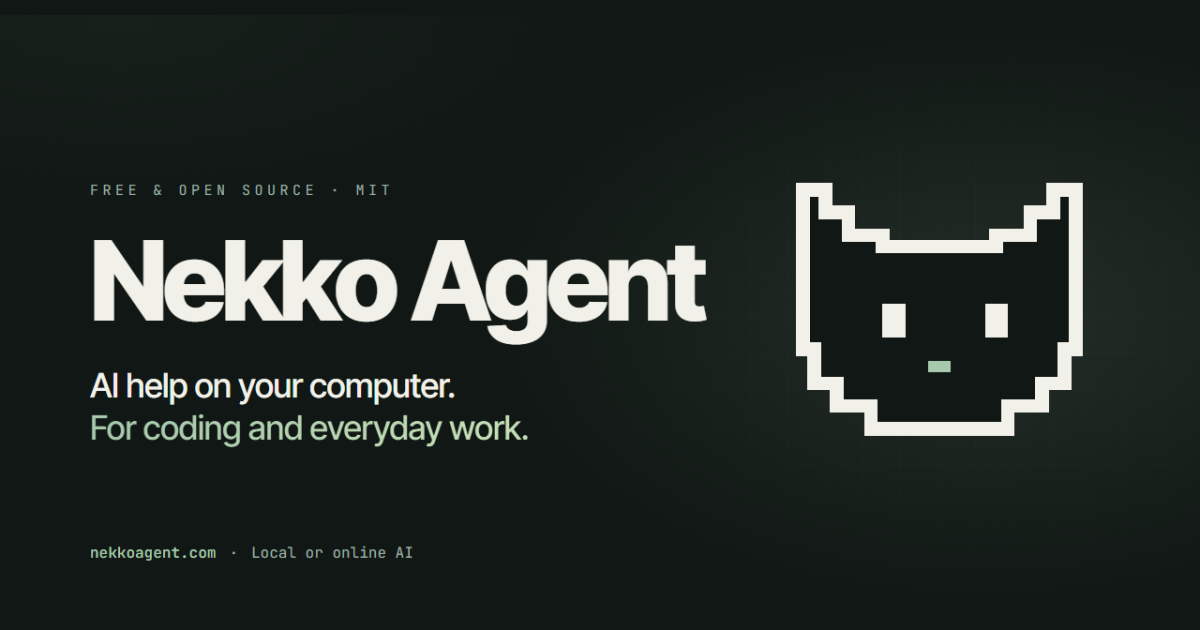
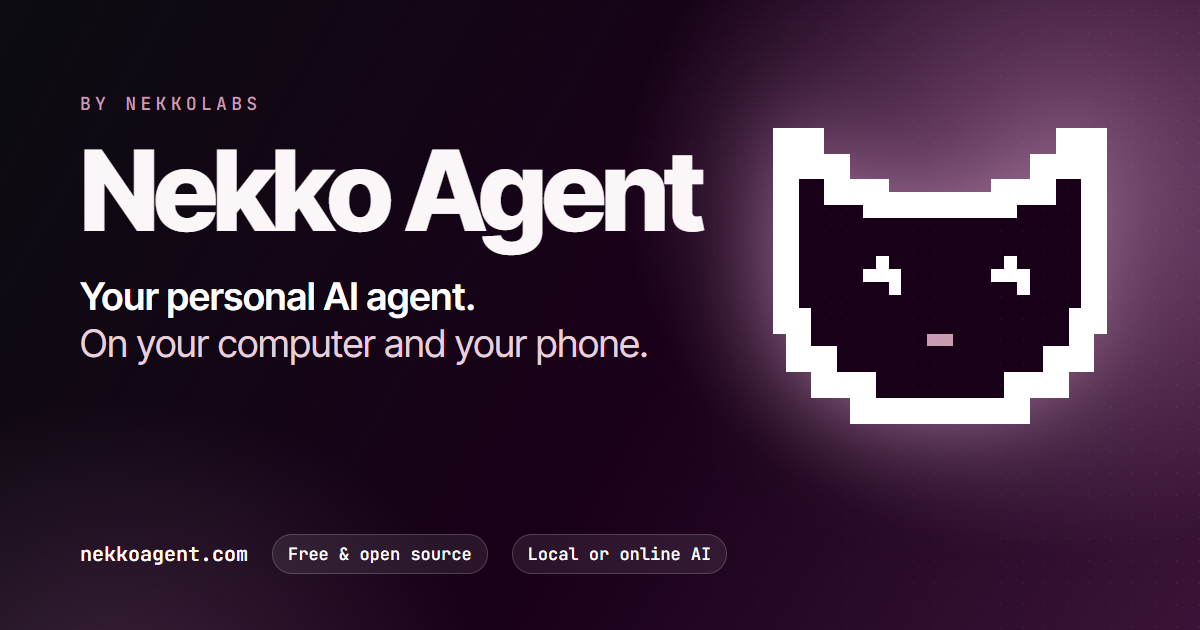
Website: a plum social preview card for every page, with Nekko on each
A shared nekkoagent.com link now shows that page's own title instead of
one generic card. The homepage card and 42 page cards (every docs page,
plus beta, status and privacy) are redrawn in the current plum brand,
with the mascot's pixel head as the picture, the logo tile top-left and
the page's address at the bottom.

scripts/make-og-cards.mjs draws them from the brand source; the docs
builder points each page at its card and falls back to the site card
for a page that has none yet. beta, status and privacy get full Open
Graph and Twitter tags, which they lacked.

diff --git a/apps/website/privacy.html b/apps/website/privacy.html
@@ -6,6 +6,20 @@
     <title>Privacy policy · Nekko Agent</title>
     <meta name="description" content="How Nekko Labs handles your details on nekkoagent.com, in the Nekko Agent beta and in Nekko Cloud: what we keep, why, who handles it and where, for how long, and your rights." />
     <link rel="canonical" href="https://nekkoagent.com/privacy" />
+    <meta property="og:type" content="website" />
+    <meta property="og:site_name" content="Nekko Agent" />
+    <meta property="og:url" content="https://nekkoagent.com/privacy" />
+    <meta property="og:title" content="Privacy policy · Nekko Agent" />
+    <meta property="og:description" content="How Nekko Labs handles your details on nekkoagent.com, in the Nekko Agent beta and in Nekko Cloud: what we keep, why, who handles it and where, for how long, and your rights." />
+    <meta property="og:image" content="https://nekkoagent.com/og/privacy.jpg?v=2" />
+    <meta property="og:image:width" content="1200" />
+    <meta property="og:image:height" content="630" />
+    <meta property="og:image:type" content="image/jpeg" />
+    <meta property="og:image:alt" content="Privacy policy · Nekko Agent" />
+    <meta name="twitter:card" content="summary_large_image" />
+    <meta name="twitter:title" content="Privacy policy · Nekko Agent" />
+    <meta name="twitter:description" content="How Nekko Labs handles your details on nekkoagent.com, in the Nekko Agent beta and in Nekko Cloud: what we keep, why, who handles it and where, for how long, and your rights." />
+    <meta name="twitter:image" content="https://nekkoagent.com/og/privacy.jpg?v=2" />
     <meta name="theme-color" content="#fbf6f8" />
     <script>(function(){var t=null;try{t=localStorage.getItem('nekko-theme');}catch(e){}if(t!=='white'&&t!=='dark')t=window.matchMedia&&matchMedia('(prefers-color-scheme: dark)').matches?'dark':'white';document.documentElement.dataset.theme=t;var m=document.querySelector('meta[name=theme-color]');if(m)m.content=t==='white'?'#fbf6f8':'#0c0c11';})();</script>
     <link rel="icon" type="image/svg+xml" href="/favicon.svg?v=plum-white-2" />

diff --git a/apps/website/beta.html b/apps/website/beta.html
@@ -6,6 +6,20 @@
     <title>What beta means · Nekko Agent</title>
     <meta name="description" content="What to expect from the Nekko Agent beta: what you get, what can go wrong, what happens to your data, and how to tell us when something breaks." />
     <link rel="canonical" href="https://nekkoagent.com/beta" />
+    <meta property="og:type" content="website" />
+    <meta property="og:site_name" content="Nekko Agent" />
+    <meta property="og:url" content="https://nekkoagent.com/beta" />
+    <meta property="og:title" content="What beta means · Nekko Agent" />
+    <meta property="og:description" content="What to expect from the Nekko Agent beta: what you get, what can go wrong, what happens to your data, and how to tell us when something breaks." />
+    <meta property="og:image" content="https://nekkoagent.com/og/beta.jpg?v=2" />
+    <meta property="og:image:width" content="1200" />
+    <meta property="og:image:height" content="630" />
+    <meta property="og:image:type" content="image/jpeg" />
+    <meta property="og:image:alt" content="What beta means · Nekko Agent" />
+    <meta name="twitter:card" content="summary_large_image" />
+    <meta name="twitter:title" content="What beta means · Nekko Agent" />
+    <meta name="twitter:description" content="What to expect from the Nekko Agent beta: what you get, what can go wrong, what happens to your data, and how to tell us when something breaks." />
+    <meta name="twitter:image" content="https://nekkoagent.com/og/beta.jpg?v=2" />
     <meta name="theme-color" content="#fbf6f8" />
     <script>(function(){var t=null;try{t=localStorage.getItem('nekko-theme');}catch(e){}if(t!=='white'&&t!=='dark')t=window.matchMedia&&matchMedia('(prefers-color-scheme: dark)').matches?'dark':'white';document.documentElement.dataset.theme=t;var m=document.querySelector('meta[name=theme-color]');if(m)m.content=t==='white'?'#fbf6f8':'#0c0c11';})();</script>
     <link rel="icon" type="image/svg+xml" href="/favicon.svg?v=plum-white-2" />

diff --git a/apps/website/status.html b/apps/website/status.html
@@ -6,6 +6,20 @@
     <title>Status · Nekko Agent</title>
     <meta name="description" content="Whether Nekko Cloud and phone access are working right now, recent incidents, and the problems we already know about in the Nekko Agent beta." />
     <link rel="canonical" href="https://nekkoagent.com/status" />
+    <meta property="og:type" content="website" />
+    <meta property="og:site_name" content="Nekko Agent" />
+    <meta property="og:url" content="https://nekkoagent.com/status" />
+    <meta property="og:title" content="Status · Nekko Agent" />
+    <meta property="og:description" content="Whether Nekko Cloud and phone access are working right now, recent incidents, and the problems we already know about in the Nekko Agent beta." />
+    <meta property="og:image" content="https://nekkoagent.com/og/status.jpg?v=2" />
+    <meta property="og:image:width" content="1200" />
+    <meta property="og:image:height" content="630" />
+    <meta property="og:image:type" content="image/jpeg" />
+    <meta property="og:image:alt" content="Status · Nekko Agent" />
+    <meta name="twitter:card" content="summary_large_image" />
+    <meta name="twitter:title" content="Status · Nekko Agent" />
+    <meta name="twitter:description" content="Whether Nekko Cloud and phone access are working right now, recent incidents, and the problems we already know about in the Nekko Agent beta." />
+    <meta name="twitter:image" content="https://nekkoagent.com/og/status.jpg?v=2" />
     <meta name="theme-color" content="#fbf6f8" />
     <script>(function(){var t=null;try{t=localStorage.getItem('nekko-theme');}catch(e){}if(t!=='white'&&t!=='dark')t=window.matchMedia&&matchMedia('(prefers-color-scheme: dark)').matches?'dark':'white';document.documentElement.dataset.theme=t;var m=document.querySelector('meta[name=theme-color]');if(m)m.content=t==='white'?'#fbf6f8':'#0c0c11';})();</script>
     <link rel="icon" type="image/svg+xml" href="/favicon.svg?v=plum-white-2" />

diff --git a/apps/website/index.html b/apps/website/index.html
@@ -24,18 +24,18 @@
       property="og:description"
       content="Nekko Agent is a free, open source, local-first AI coding and cowork desktop app that runs models via Ollama, LM Studio or vLLM. By NekkoLabs, Tokyo."
     />
-    <meta property="og:image" content="https://nekkoagent.com/og.png?v=plum-white-2" />
+    <meta property="og:image" content="https://nekkoagent.com/og.png?v=plum-3" />
     <meta property="og:image:width" content="1200" />
     <meta property="og:image:height" content="630" />
     <meta property="og:image:type" content="image/png" />
-    <meta property="og:image:alt" content="Nekko Agent: the personal, local agent you can trust" />
+    <meta property="og:image:alt" content="Nekko Agent by NekkoLabs: your personal AI agent, on your computer and your phone" />
     <meta name="twitter:card" content="summary_large_image" />
     <meta name="twitter:title" content="Nekko Agent by NekkoLabs | Personal, local AI agent" />
     <meta
       name="twitter:description"
       content="Nekko Agent is a free, open source, local-first AI coding and cowork desktop app that runs models via Ollama, LM Studio or vLLM. By NekkoLabs, Tokyo."
     />
-    <meta name="twitter:image" content="https://nekkoagent.com/og.png?v=plum-white-2" />
+    <meta name="twitter:image" content="https://nekkoagent.com/og.png?v=plum-3" />
     <link rel="stylesheet" href="styles.css?v=18" />
     <link rel="stylesheet" href="fonts.css?v=1" />
     <!-- Structured data: so search and answer engines describe Nekko Agent accurately -->
